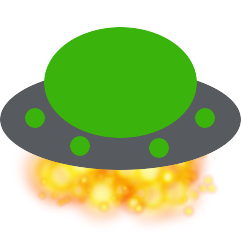
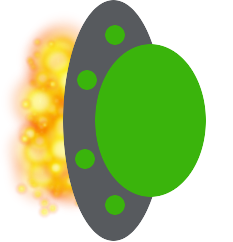
Update ship pngs

diff --git a/packages/spacehole/spacehole/LevelRenderer.js b/packages/spacehole/spacehole/LevelRenderer.js
@@ -35,16 +35,17 @@ function LevelRenderer(level, canvasId, width, height) {
           y: 0.5
         }
       });
-      body.view.scale = new PIXI.Point(body.radius / 100.0, body.radius / 100.0);
+      body.view.scale = new PIXI.Point(body.radius / 5.0, body.radius / 5.0);
     } else if (body.body_type === "ship") {
       body.view = renderer.createDisplay('sprite', {
         texture: 'images/SpaceShip.png',
         anchor: {
           x: 0.5,
           y: 0.5
-        }
+        },
       });
       body.view.scale = new PIXI.Point(body.radius / 100.0, body.radius / 100.0);
+      body.view.rotate = Math.PI / 3;
     }
   });
 

diff --git a/packages/spacehole/spacehole/GameManager.js b/packages/spacehole/spacehole/GameManager.js
@@ -21,12 +21,12 @@ GameManager.prototype = {
       start: { x: 100, y: 100 },
       end: { x: 300, y: 300 },
       static_star: [
-        { x: 200, y: 200, r: 30 },
-        { x: 500, y: 250, r: 40 },
+        { x: 400, y: 400, r: 10 },
+        { x: 500, y: 250, r: 20 },
       ],
       dynamic_star: [
-        { x: 300, y: 200, r: 8 },
-        { x: 500, y: 150, r: 8 },
+        //{ x: 300, y: 200, r: 8 },
+        //{ x: 500, y: 150, r: 8 },
       ]
     };
 

diff --git a/packages/spacehole/spacehole/Wormhole.js b/packages/spacehole/spacehole/Wormhole.js
@@ -2,7 +2,7 @@ var Physics = this.Physics;
 
 function Wormhole(options) {
   options.treatment = 'static';
-  options.radius = 10;
+  options.radius = 1;
   options.mass = 0.0001;
 
   var body = new Physics.body('circle', options);
